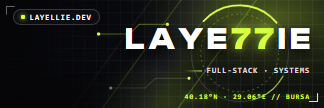
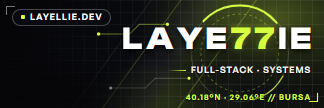
fix(hero): sharpen profile media at 1x/HiDPI and vertically center marquee text

diff --git a/src/App.jsx b/src/App.jsx
@@ -1053,7 +1053,7 @@ export function DiscordProfileCard({ config = DISCORD_PRESENCE }) {
       aria-label={lang === "en" ? "Discord live profile" : "Discord canlı profil kartı"}
       data-discord-presence={isOnline ? "online" : "offline"}
       data-presence-kind={presence?.kind || "offline"}
-      className="hero-rise flex w-full max-w-[340px] flex-col overflow-hidden rounded-2xl border border-[#1f1f24] bg-[#050507] shadow-[0_24px_60px_rgba(0,0,0,0.75)] lg:w-[324px] lg:shrink-0"
+      className="hero-rise flex w-full max-w-[340px] flex-col overflow-hidden rounded-2xl border border-[#1f1f24] bg-[#050507] shadow-[0_24px_60px_rgba(0,0,0,0.75)] lg:w-[326px] lg:shrink-0"
       style={{ "--hero-delay": "0.12s", "--hero-dur": "0.7s" }}
     >
       <div
@@ -1064,7 +1064,7 @@ export function DiscordProfileCard({ config = DISCORD_PRESENCE }) {
             src={config.bannerPath}
             srcSet={
               config.bannerPath === "/media/profile/banner/layellie-banner.webp"
-                ? "/media/profile/banner/layellie-banner-1x.webp 1x, /media/profile/banner/layellie-banner.webp 2x"
+                ? "/media/profile/banner/layellie-banner-1x.webp 1x, /media/profile/banner/layellie-banner.webp 1.25x"
                 : undefined
             }
             alt={lang === "en" ? "Layellie profile banner" : "Layellie profil banner"}
@@ -1076,7 +1076,7 @@ export function DiscordProfileCard({ config = DISCORD_PRESENCE }) {
         )}
       </div>
 
-      <div className="shrink-0 px-4 pb-2.5">
+      <div className="flex flex-1 flex-col px-4 pb-3">
         <div className="-mt-8 flex items-end justify-between gap-3">
           <div className="relative flex h-16 w-16 shrink-0 items-center justify-center rounded-full border-4 border-[#050507] bg-[#0d0d11] font-display text-xl font-semibold text-accent">
             {config.avatarPath ? (
@@ -1084,12 +1084,12 @@ export function DiscordProfileCard({ config = DISCORD_PRESENCE }) {
                 src={config.avatarPath}
                 srcSet={
                   config.avatarPath === "/media/profile/avatar/layellie-pp.webp"
-                    ? "/media/profile/avatar/layellie-pp-1x.webp 1x, /media/profile/avatar/layellie-pp.webp 2x"
+                    ? "/media/profile/avatar/layellie-pp-1x.webp 1x, /media/profile/avatar/layellie-pp.webp 1.25x"
                     : undefined
                 }
                 alt={IDENTITY.name}
-                width={64}
-                height={64}
+                width={56}
+                height={56}
                 className="h-full w-full rounded-full object-cover"
                 decoding="async"
               />
@@ -1132,13 +1132,13 @@ export function DiscordProfileCard({ config = DISCORD_PRESENCE }) {
           {t.hero.role}
         </p>
 
-        <div className="mt-2 overflow-hidden rounded-xl border border-[#1f1f24] bg-[#0a0a0d] px-3 py-2">
+        <div className="mt-auto overflow-hidden rounded-xl border border-[#1f1f24] bg-[#0a0a0d] px-3 py-2.5">
           {hasActivity && (
-            <div className="mb-0.5 font-mono text-[10px] tracking-[0.14em] text-accent">
+            <div className="mb-1 font-mono text-[10px] leading-none tracking-[0.14em] text-accent">
               {activityHeading}
             </div>
           )}
-          <div className="profile-marquee-mask overflow-hidden">
+          <div className="profile-marquee-mask flex items-center overflow-hidden">
             <div className="animate-profile-marquee whitespace-nowrap font-mono text-xs font-medium tracking-[0.14em] text-ink">
               <span className={hasActivity ? "tracking-normal" : undefined}>
                 {activityTrack}

diff --git a/src/index.css b/src/index.css
@@ -626,8 +626,10 @@ body {
 
 /* Hero Discord profil kartı kayan durum şeridi */
 .animate-profile-marquee {
-  display: inline-flex;
+  display: flex;
+  align-items: center;
   width: max-content;
+  line-height: 1;
   will-change: transform;
   animation: marquee 14s linear infinite;
 }
